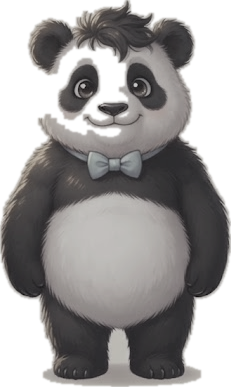
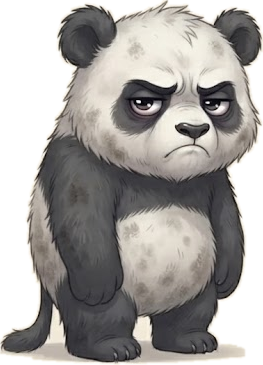
Tama : mauvaises formes dessinées pour les 8 espèces (filles et garçons)
Claude-Session: https://claude.ai/code/session_01UTaypXBnC3UMfvWUL5q9hs

diff --git a/tama/index.html b/tama/index.html
@@ -424,7 +424,7 @@ const ANC={
 };
 const STI={baby:0,child:1,teen:2,adult:3};
 const IM={};
-function img(p){let i=IM[p];if(!i){i=new Image();i.src='img/'+p+'?v=4';IM[p]=i;}return i;}
+function img(p){let i=IM[p];if(!i){i=new Image();i.src='img/'+p+'?v=5';IM[p]=i;}return i;}
 const imOk=i=>i&&i.complete&&i.naturalWidth>0;
 const TC={};
 function tinted(im,key,col,a){const k=key+col+a;let c=TC[k];if(c)return c;c=document.createElement('canvas');c.width=im.naturalWidth;c.height=im.naturalHeight;const x=c.getContext('2d');x.drawImage(im,0,0);x.globalCompositeOperation='source-atop';x.globalAlpha=a;x.fillStyle=col;x.fillRect(0,0,c.width,c.height);return TC[k]=c;}
@@ -453,9 +453,9 @@ function drawPet(s,cx,base,t,mood){
   ctx.save();ctx.translate(cx,base+bob);ctx.rotate(rot);ctx.scale(sxs,sy);
   const a=st==='egg'?null:ANC[sp][STI[st]];
   const X=a?(a[0]-.5)*w:0,HW=a?a[3]*w:0,Y=f=>-h+f*h;
-  if(a&&W.neck==='neck_cape')ai('neck_cape',0,Y(a[4])-h*.03,w*.95,'t');
+  if(a&&!bad&&W.neck==='neck_cape')ai('neck_cape',0,Y(a[4])-h*.03,w*.95,'t');
   ctx.drawImage(src,-w/2,-h,w,h);
-  if(a){
+  if(a&&!bad){
     const hat=W.hat,fc=W.face,nk=W.neck,sd=W.side,top=Y(a[1]),ey=Y(a[2]),ny=Y(a[4]);
     if(hat){
       if(HAT[hat]){const c=HAT[hat],wd=HW*c[0],im2=img('acc/'+hat+'.png');if(imOk(im2)){const hh=wd*im2.naturalHeight/im2.naturalWidth;ai(hat,X+(hat==='hat_party'?HW*.12:0),top+hh*c[1],wd,'b');}}
@@ -503,9 +503,9 @@ function drawWall(id,t){
 
 /* icônes illustrées pour la boutique */
 Object.keys(ITEMS).forEach(k=>{const it=ITEMS[k];
-  if(it.kind==='bg')it.ic='<img class="aim bgi" src="img/bg/'+k.slice(3)+'.jpg?v=4" alt="">';
-  else if(it.kind==='egg')it.ic='<img class="aim" src="img/'+SPN[it.sp]+'_f_egg.png?v=4" alt="">';
-  else it.ic='<img class="aim" src="img/acc/'+k+'.png?v=4" alt="">';});
+  if(it.kind==='bg')it.ic='<img class="aim bgi" src="img/bg/'+k.slice(3)+'.jpg?v=5" alt="">';
+  else if(it.kind==='egg')it.ic='<img class="aim" src="img/'+SPN[it.sp]+'_f_egg.png?v=5" alt="">';
+  else it.ic='<img class="aim" src="img/acc/'+k+'.png?v=5" alt="">';});
 const HYB={'0-1':'Dragochat','0-2':'Chatpin','0-3':'Licochat','0-4':'Pandichat','0-5':'Goupichat','0-6':'Chatbot','0-7':'Pastchat',
  '1-2':'Dragolap','1-3':'Licodrago','1-4':'Pandragon','1-5':'Dragoupil','1-6':'Dragobot','1-7':'Dragopastel',
  '2-3':'Licolap','2-4':'Pandilap','2-5':'Goulapin','2-6':'Lapbot','2-7':'Pastelap',
@@ -1015,7 +1015,7 @@ function showPick(){
   const draw=()=>{
     const sp=SPECIES[sel];
     openModal('<h2>Un œuf mystérieux</h2><p class="muted">Choisis un œuf. Selon tes soins, il deviendra une créature différente.</p><div class="eggs">'+
-      SPECIES.map((q,i)=>'<button class="egg'+(i===sel?' sel':'')+(q.rare?' rare':'')+'" data-egg="'+i+'"><span class="ic">'+(ok(i)?'<img class="aim" src="img/'+SPN[i]+'_f_egg.png?v=4" alt="">':'🔒')+'</span>'+q.name+(q.rare?'<small>✨ rare</small>':'')+'</button>').join('')+'</div>'+
+      SPECIES.map((q,i)=>'<button class="egg'+(i===sel?' sel':'')+(q.rare?' rare':'')+'" data-egg="'+i+'"><span class="ic">'+(ok(i)?'<img class="aim" src="img/'+SPN[i]+'_f_egg.png?v=5" alt="">':'🔒')+'</span>'+q.name+(q.rare?'<small>✨ rare</small>':'')+'</button>').join('')+'</div>'+
       '<div class="detail"><h3>'+sp.emoji+' '+sp.name+'</h3><p>'+sp.desc+'</p>'+(ok(sel)?'':'<p style="color:var(--gold);font-weight:800">🔒 À débloquer à la boutique (onglet Œufs) : '+sp.price+' 💎</p>')+'</div>'+
       '<div class="chips"><button data-sx="f" class="'+(sex==='f'?'on':'')+'">♀ Fille</button><button data-sx="m" class="'+(sex==='m'?'on':'')+'">♂ Garçon</button></div>'+
       '<input class="nm" id="nameIn" maxlength="12" placeholder="Son prénom" value="'+(window.__nm||'')+'" aria-label="Prénom">'+

diff --git a/index.html b/index.html
@@ -91,7 +91,7 @@ a.g .tag{position:absolute;right:5px;top:5px;font-size:11px;font-weight:800;back
 </script>
 <script>
 (function(){
-  const VERSION='n°67 · 27/10 09:26';
+  const VERSION='n°68 · 27/10 09:32';
   const ver=document.getElementById('ver'),upd=document.getElementById('upd');
   ver.textContent='Version '+VERSION;
   document.querySelectorAll('a.g').forEach(x=>{const h=x.getAttribute('href');if(h&&!h.includes('?'))x.setAttribute('href',h+'?v='+encodeURIComponent(VERSION));const im=x.querySelector('img');if(im)im.src=im.getAttribute('src')+'?v='+encodeURIComponent(VERSION);x.addEventListener('click',()=>{try{localStorage.setItem('hub-last',x.dataset.n+'|'+x.getAttribute('href')+'|'+im.getAttribute('src'));}catch(e){}});});

diff --git a/tama/sw.js b/tama/sw.js
@@ -1,4 +1,4 @@
-const CACHE='jeux-tama-v12';
+const CACHE='jeux-tama-v13';
 const FILES=['./','./index.html','./manifest.webmanifest','./icons/icon-192.png','./icons/icon-512.png'];
 self.addEventListener('install',e=>{e.waitUntil(caches.open(CACHE).then(c=>c.addAll(FILES)).then(()=>self.skipWaiting()));});
 self.addEventListener('activate',e=>{e.waitUntil(caches.keys().then(ks=>Promise.all(ks.filter(k=>k.startsWith('jeux-tama-')&&k!==CACHE).map(k=>caches.delete(k)))).then(()=>self.clients.claim()));});
